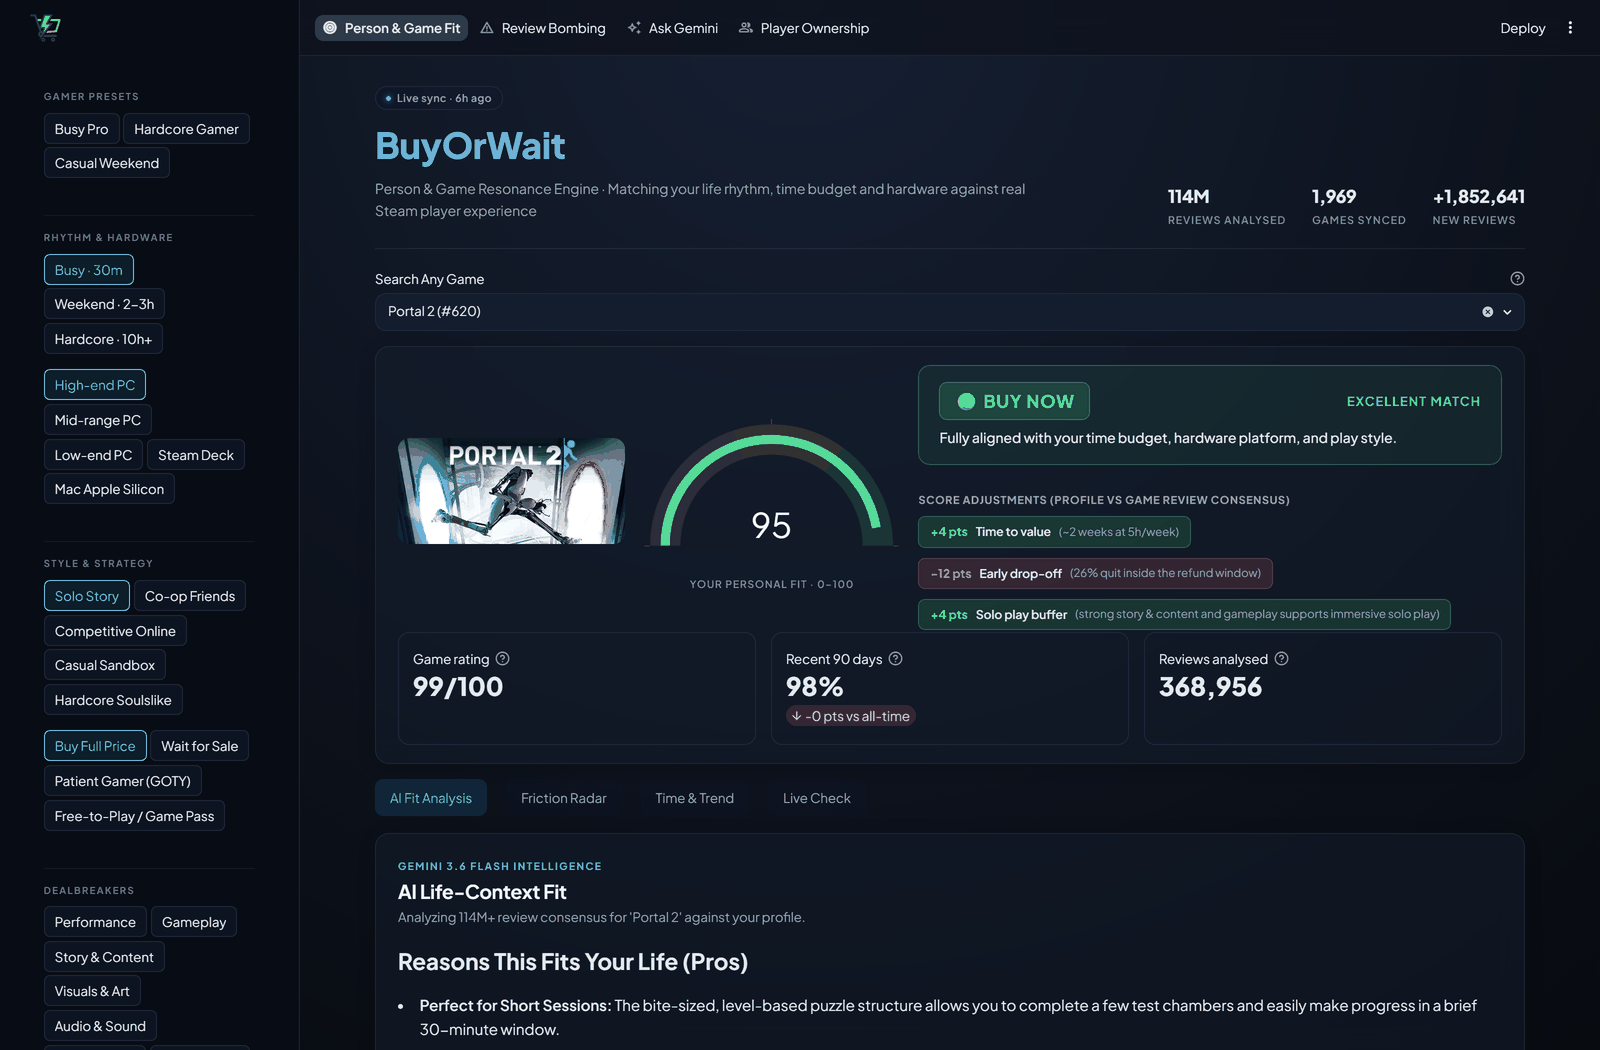
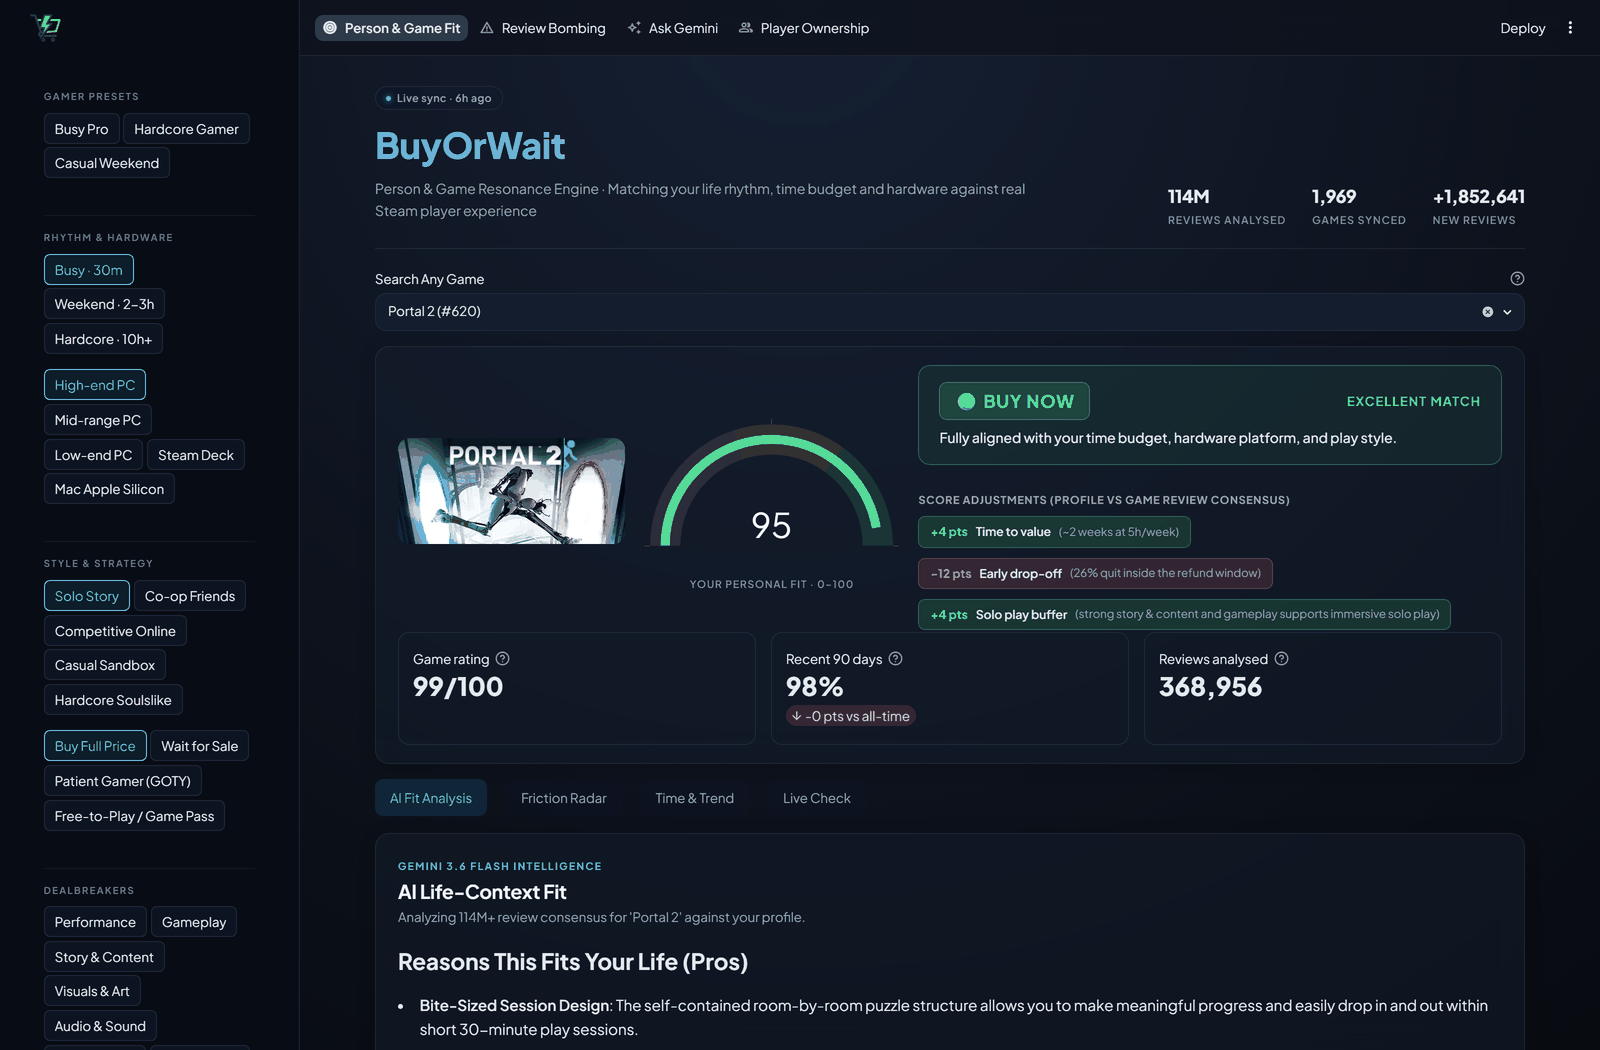
fix(radar): rank the headline by prevalence, and stop quoting ASCII art
Validated the radar against ten games whose real controversy is documented
independently of this dataset. The headline dimension was right for six of them, and
the two failures were systematic rather than random.

Ranking. The headline ordered by percentile within a risk level, which always
surfaces the RAREST theme: Visuals has a corpus median of 0.23% against Gameplay's
2.44%, so a 2.67% visual share lands at p99 while a 14.93% gameplay share only
reaches p91. Battlefield 2042 was therefore headlined on art direction rather than
its broken launch. Ranking by share alone fails the opposite way — "Gameplay &
Controls" is a catch-all that wins for nearly every game (3/10). Ordering by level
first and then share reads as "among the themes where this game is genuinely unusual,
the one most players actually raise", and measured 8/10 against 6/10:

    Battlefield 2042   Visuals        -> Gameplay & Controls 14.93%
    Starfield          Story          -> Performance 5.70%
    Cities: Skylines   Dev Support    -> Price & Value 2.03%   (its DLC pricing)
    Overwatch 2 / Fallout 76 / No Man's Sky / Elden Ring / New Vegas: unchanged, right

The percentile still does the grading and is still displayed; it just no longer
decides the ordering.

Quotes. Evidence snippets are chosen by smallest distance, which let ASCII-art blobs
and the copy-paste ballot-box rating template rank first — they sit close to the
Visuals probe because they contain the word "Graphics" or a wall of glyphs.
[…]

Changed region(s): [[0.25, 0.9448, 0.9375, 1.0]]

diff --git a/app/app.py b/app/app.py
@@ -1530,13 +1530,25 @@ def friction_radar(appid: int) -> tuple[dict, list]:
         ),
         scored AS (
           SELECT q.dim AS dim, v.text AS text,
-                 ML.DISTANCE(v.embedding, q.qv, 'COSINE') AS dist
+                 ML.DISTANCE(v.embedding, q.qv, 'COSINE') AS dist,
+                 -- Quotable = says something in words. Excludes ASCII-art blobs
+                 -- (box-drawing/block/braille runs) and the copy-paste ballot-box
+                 -- rating template that circulates on Steam, both of which sit very
+                 -- close to the Visuals probe purely because they contain the word
+                 -- "Graphics" or a wall of glyphs. Battlefield 2042's top visual
+                 -- quote was one of these templates, which says nothing at all.
+                 NOT REGEXP_CONTAINS(v.text,
+                   r'[\\x{{2500}}-\\x{{259F}}\\x{{2800}}-\\x{{28FF}}]|☐|☑') AS quotable
           FROM v CROSS JOIN UNNEST(@dims) AS q
           WHERE v.voted_up = q.want_pos
         )
         SELECT dim,
+               -- The count keeps every matching review; only the QUOTES are filtered,
+               -- because this noise is 2.8% of negatives and dropping it from the
+               -- metric would shift grading for no measured benefit.
                COUNTIF(dist < {STRONG_DIST}) AS strong,
-               ARRAY_AGG(text ORDER BY dist LIMIT 3) AS texts,
+               ARRAY_AGG(IF(quotable, text, NULL) IGNORE NULLS
+                         ORDER BY dist LIMIT 3) AS texts,
                -- Per polarity, never the combined count: review_vectors is a balanced
                -- sample (embed_index caps each polarity separately), so the totals ratio
                -- describes the sampler rather than the game. See radar_baseline.
@@ -2020,17 +2032,24 @@ def render_friction_radar(radar: dict, praise_texts: list, my_dims: list):
         st.caption("Not enough indexed reviews to profile player friction for this game.")
         return
 
-    # Worst level first, then most unusual within a level, so the headline below picks
-    # the theme a buyer should actually worry about.
+    # Worst level first, then the LARGEST SHARE within a level — not the highest
+    # percentile. The two orderings fail in opposite directions and it was measured on
+    # ten games whose real controversy is documented independently of this dataset:
+    # ranking by percentile always surfaces the rarest theme (Visuals, corpus median
+    # 0.23%, outranked Gameplay at 2.44%), so Battlefield 2042's headline was art
+    # direction rather than its broken launch; ranking by share alone always surfaces
+    # the catch-all theme, making "Gameplay & Controls" the answer for nearly every
+    # game. Level-then-share reads as "among the themes where this game is genuinely
+    # unusual, the one most players actually raise", and scored 7-8 of 10 against 6.
+    # The percentile still does the grading and is still shown, just not the ordering.
     ranked = sorted(
         radar.items(),
         key=lambda kv: ({"High Risk": 0, "Moderate Risk": 1, "Low Risk": 2}[kv[1]["level"]],
-                        -kv[1]["pctl"]))
+                        -kv[1]["share"]))
     top_dim, top_val = ranked[0]
     if top_val["level"] == "Low Risk":
-        st.success(f"Nothing stands out. The loudest theme is {top_dim.lower()}, "
-                   f"raised in {top_val['share']:.1f}% of reviews — "
-                   f"{rank_phrase(top_val['pctl'])}.")
+        st.success(f"Nothing stands out. The most-raised theme is {top_dim.lower()}, "
+                   f"in {top_val['share']:.1f}% of reviews — {rank_phrase(top_val['pctl'])}.")
     else:
         st.markdown(f"**Biggest friction: {top_dim}** — raised in "
                     f"{top_val['share']:.1f}% of this game's reviews, "
